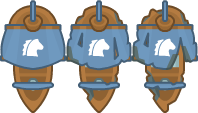
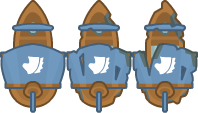
Add background and player collision

diff --git a/src/states/main.js b/src/states/main.js
@@ -1,102 +1,14 @@
-import { PALETTE } from 'constants';
-
+import Background from 'objects/background';
 import Player from 'objects/player';
 
 export default class Main extends Phaser.State {
-  preload() {}
-
   create() {
     const { game } = this;
-    game.stage.backgroundColor = PALETTE.BACKGROUND;
+    const gameObjects = [
+      new Background(game),
+      new Player(game)
+    ];
 
-    const player = new Player(game);
-    game.add.existing(player);
+    gameObjects.forEach(game.add.existing.bind(this));
   }
 }
-
-
-// import { SFX, STATES } from 'constants';
-
-// import Background from 'objects/background';
-// import Food from 'objects/food';
-// import Floor from 'objects/floor';
-// import Player from 'objects/player';
-// import LikeCounter from 'objects/like-counter';
-// import LifeCounter from 'objects/life-counter';
-
-// export default class Main extends Phaser.State {
-//   constructor() {
-//     super();
-
-//     this.endGame = this.endGame.bind(this);
-//     this.destroyFood = this.destroyFood.bind(this);
-//   }
-
-//   create() {
-//     const { game } = this;
-
-//     this.game.score.reset();
-
-//     const background = new Background(game);
-//     game.add.existing(background);
-
-//     this.floor = new Floor(game);
-//     game.add.existing(this.floor);
-
-//     this.player = new Player(game);
-//     game.add.existing(this.player);
-
-//     const counters = [
-//       new LikeCounter(game),
-//       new LifeCounter(game),
-//     ];
-
-//     counters.forEach(counter => game.add.existing(counter));
-
-//     this.foodGroup = game.add.group();
-
-//     game.physics.arcade.collide(this.foodGroup);
-
-//     game.time.events.repeat(Phaser.Timer.SECOND * 0.27, Infinity, this.createFood, this);
-
-//     this.game.world.setBounds(0, 0, 600, 600);
-//   };
-
-//   endGame() {
-//     const { state } = this.game;
-
-//     state.start(STATES.END);
-//   }
-
-//   createFood() {
-//     const food = new Food(this.game);
-//     this.foodGroup.add(food);
-//   }
-
-//   destroyFood(floor, food) {
-//     food.animations.play('destroy');
-//     food.destroying = true;
-
-//     food.animations.currentAnim.onComplete.add(() => {
-//       this.foodGroup.remove(food, true);
-//     });
-//   }
-
-//   update() {
-//     const { physics, score } = this.game;
-
-//     physics.arcade.collide(this.floor, this.player);
-
-//     physics.arcade.collide(this.foodGroup, this.floor, this.destroyFood);
-
-//     physics.arcade.overlap(this.player, this.foodGroup, (player, food) => {
-//       this.foodGroup.remove(food, true);
-//       score.lives += food.healthy ? 1 : -1;
-//       this.game.sound.play(food.healthy ? SFX.TRUMPET : SFX.BITE);
-//     }, (player, food) => !food.destroying);
-
-//     if (score.lives <= 0) {
-//       this.endGame();
-//     }
-//   }
-// }

diff --git a/src/objects/player.js b/src/objects/player.js
@@ -10,10 +10,11 @@ export default class Player extends Phaser.Sprite {
 
     super(game, x, y, IMAGES.PLAYER);
 
-    game.physics.arcade.enable(this);
+    game.physics.p2.enable(this, true);
 
     this.anchor.setTo(0.5, 0.5);
-    this.speed = 200;
+    this.body.mass = 5;
+    this.body.setRectangle(44, 100);
 
     this.keys = {
       ...game.input.keyboard.createCursorKeys(),
@@ -25,19 +26,19 @@ export default class Player extends Phaser.Sprite {
     const { down, left, right, up } = this.keys;
 
     if (up.isDown) {
-      this.body.velocity.y = -(this.speed);
-    } else if (down.isDown) {
-      this.body.velocity.y = this.speed;
-    } else {
-      this.body.velocity.y = 0;
+      this.body.thrust(200);
+    }
+
+    if (down.isDown) {
+      this.body.reverse(200)
     }
 
     if (left.isDown) {
-      this.body.velocity.x = -(this.speed);
+      this.body.rotateLeft(22.5);
     } else if (right.isDown) {
-      this.body.velocity.x = this.speed;
+      this.body.rotateRight(22.5);
     } else {
-      this.body.velocity.x = 0;
+      this.body.setZeroRotation();
     }
   }
 

diff --git a/src/objects/background.js b/src/objects/background.js
@@ -1,0 +1,12 @@
+import { IMAGES, VIEWPORT } from 'constants';
+
+export default class Background extends Phaser.TileSprite {
+  constructor(game) {
+    super(game, 0, 0, VIEWPORT.WIDTH, VIEWPORT.HEIGHT, IMAGES.BACKGROUND);
+  }
+
+  update() {
+    this.tilePosition.y += 0.1;
+    this.tilePosition.x += 0.1;
+  }
+}

diff --git a/src/states/boot.js b/src/states/boot.js
@@ -7,6 +7,8 @@ export default class Boot extends Phaser.State {
     // Load assets
     load.spritesheet(IMAGES.PLAYER, 'assets/img/blue-ship.png', 66, 113);
     load.spritesheet(IMAGES.ENEMY, 'assets/img/red-ship.png', 66, 113);
+
+    load.image(IMAGES.BACKGROUND, 'assets/img/water.png');
   }
 
   create() {

diff --git a/src/index.js b/src/index.js
@@ -15,7 +15,7 @@ const config = {
   parent: '',
   transparent: false,
   antialias: true,
-  physicsConfig: { arcade: true },
+  physicsConfig: { p2: true },
 };
 
 const game = new Phaser.Game(config);

diff --git a/src/constants.js b/src/constants.js
@@ -3,6 +3,7 @@ export const PALETTE = {
 };
 
 export const IMAGES = {
+  BACKGROUND: 'BACKGROUND',
   ENEMY: 'ENEMY',
   PLAYER: 'PLAYER',
 };
